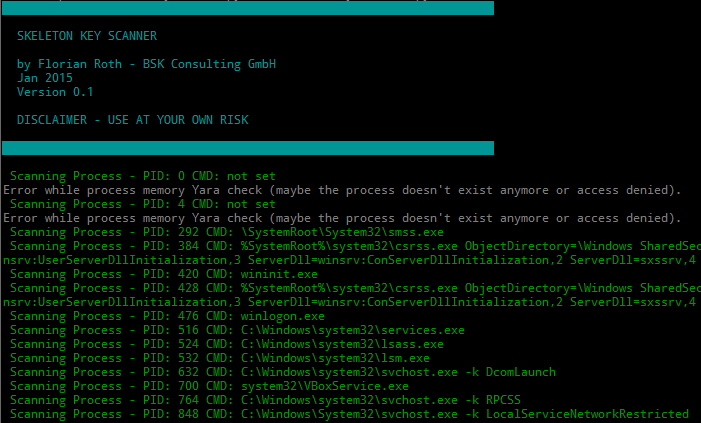
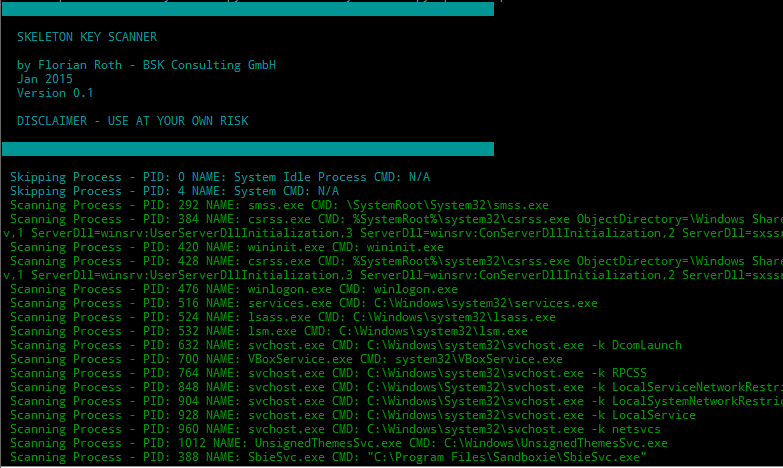
screenshot

diff --git a/skeletonkey-scanner.py b/skeletonkey-scanner.py
@@ -120,19 +120,26 @@ def scanProcesses(rules):
 
 		try:	
 			pid = process.ProcessId
+			name = process.Name
 			cmd = process.CommandLine
 			if not cmd:
-				cmd = "not set"
+				cmd = "N/A"
+			if not name:
+				name = "N/A"
 		except Exception, e:
-			print "Error getting all process information. Did you run the scanner 'As Administrator'?"
+			print Fore.MAGENTA, "Error getting all process information. Did you run the scanner 'As Administrator'?", Fore.WHITE
 			continue
 
-		print Fore.GREEN, "Scanning Process - PID: %s CMD: %s" % ( pid, cmd ), Fore.WHITE
+		if pid == 0 or pid == 4:
+			print Fore.CYAN, "Skipping Process - PID: %s NAME: %s CMD: %s" % ( pid, name, cmd ), Fore.WHITE
+			continue
+
+		print Fore.GREEN, "Scanning Process - PID: %s NAME: %s CMD: %s" % ( pid, name, cmd ), Fore.WHITE
 
 		# Psexec command check
 		# Skeleton Key Malware Process
 		if re.search(r'psexec .* [a-fA-F0-9]{32}', cmd, re.IGNORECASE):
-			print Fore.RED, "\bProcess that looks liks SKELETON KEY psexec execution detected PID: %s CMD: %s" % ( pid, cmd), Fore.WHITE
+			print Fore.RED, "\bProcess that looks liks SKELETON KEY psexec execution detected PID: %s NAME: %s CMD: %s" % ( pid, name, cmd), Fore.WHITE
 			compromised = True
 		
 		# Yara rule match
@@ -140,10 +147,10 @@ def scanProcesses(rules):
 			matches = rules.match(pid=pid)
 			if matches:
 				for match in matches:
-					print Fore.RED, "\bSKELETONKEY Yara Rule MATCH: %s PID: %s CMD:%" % ( match, pid, cmd), Fore.WHITE
+					print Fore.RED, "\bSKELETONKEY Yara Rule MATCH: %s PID: %s NAME: %s CMD:%" % ( match, pid, name, cmd), Fore.WHITE
 					compromised = True			
 		except Exception, e:
-			print "Error while process memory Yara check (maybe the process doesn't exist anymore or access denied)."
+			print Fore.MAGENTA, "Error while process memory Yara check (maybe the process doesn't exist anymore or access denied). PID: %s NAME: %s" % ( pid, name), Fore.WHITE
 
 	return compromised
 
@@ -189,6 +196,7 @@ def printWelcome():
 	print "  "
 	print Back.CYAN, "                                                                    ", Back.BLACK
 	print Fore.WHITE+''+Back.BLACK	
+
 
 # MAIN ################################################################
 if __name__ == '__main__':
